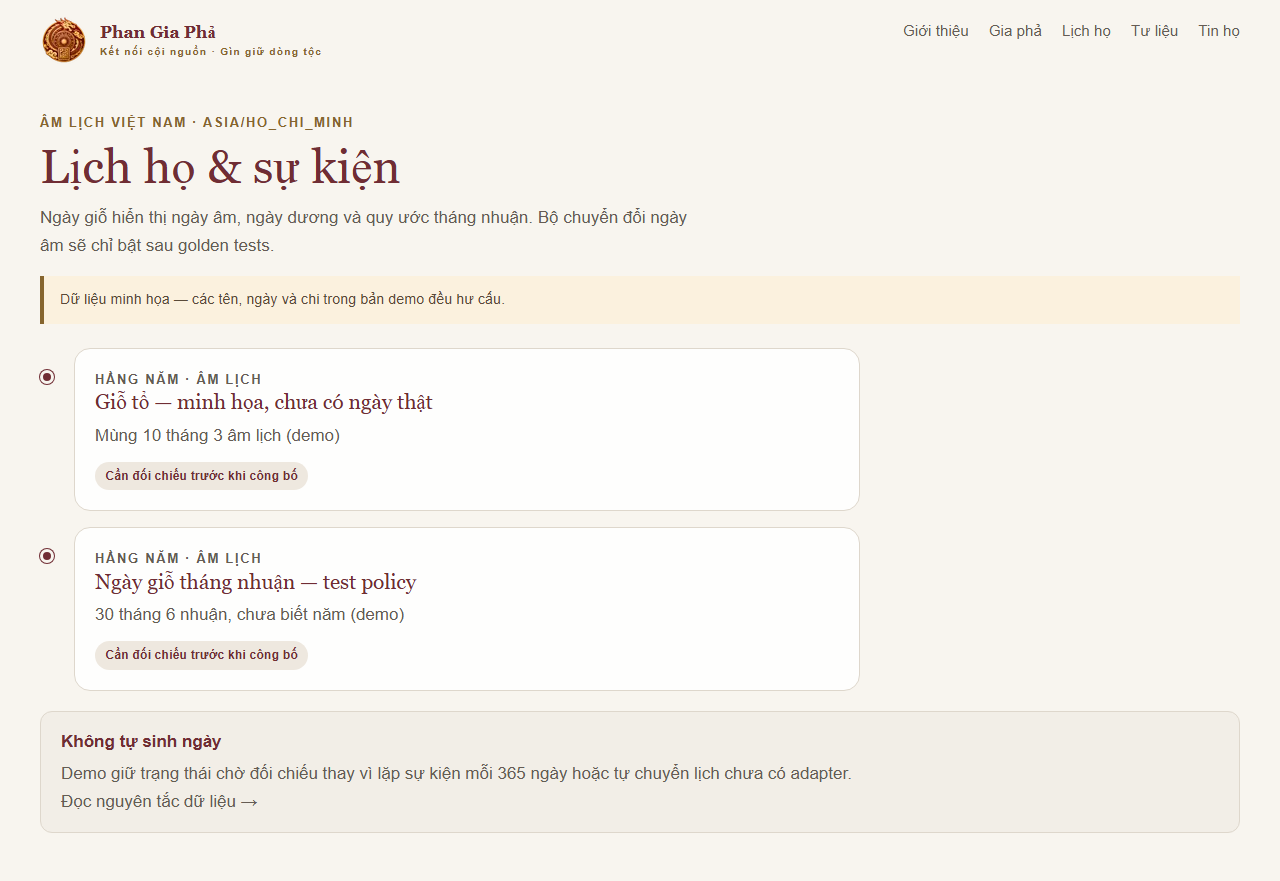
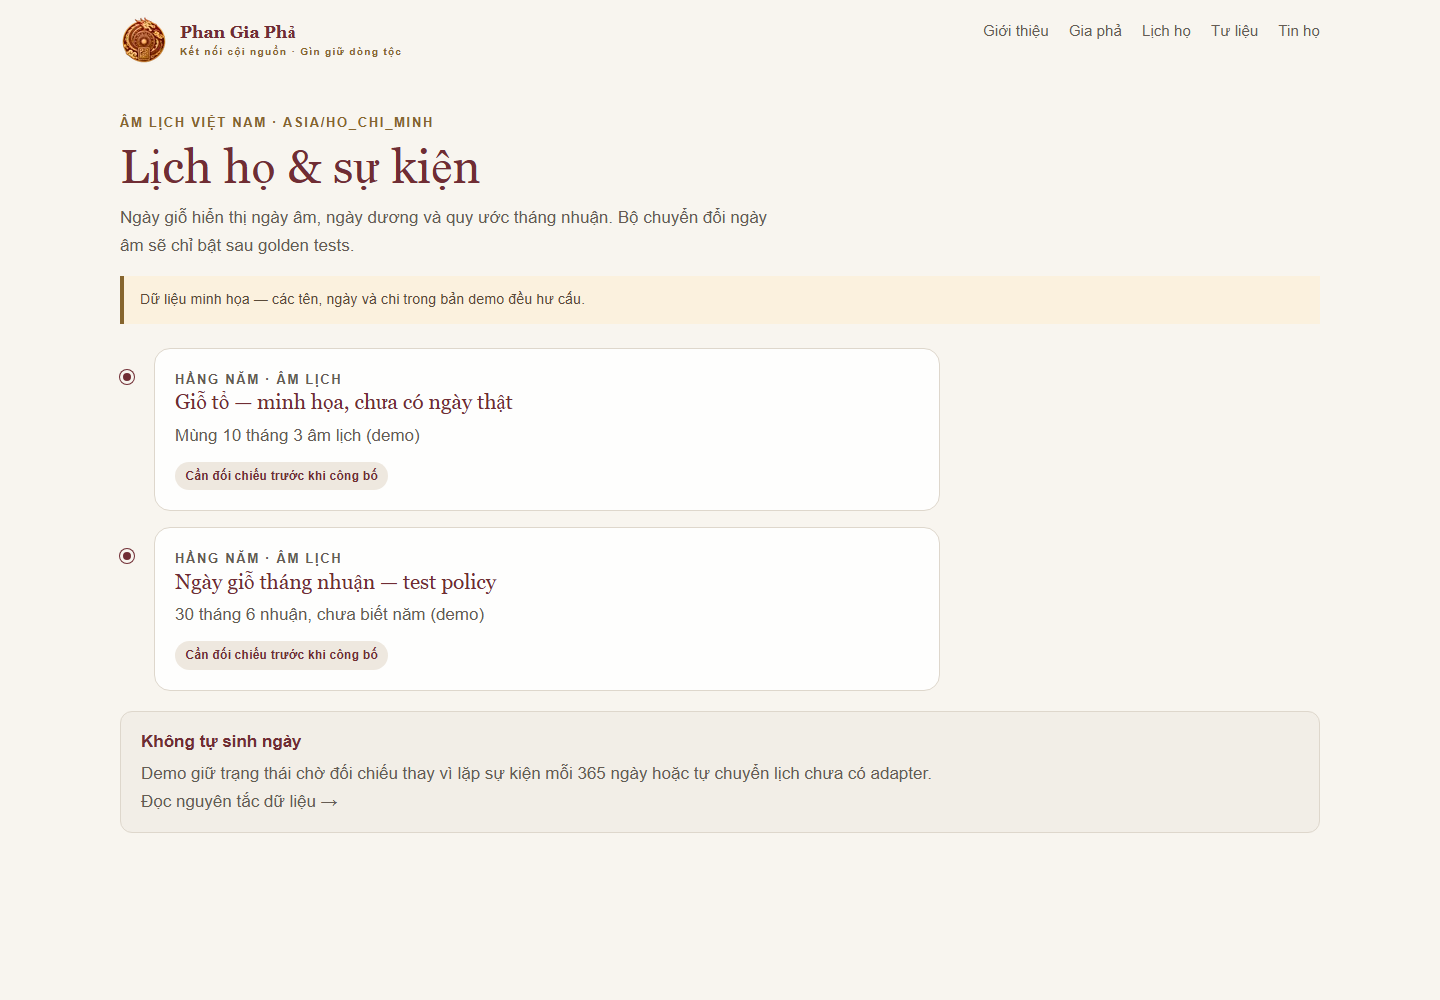
test: cover responsive accessibility smoke

diff --git a/tests/e2e/p1-demo.spec.ts b/tests/e2e/p1-demo.spec.ts
@@ -57,3 +57,29 @@ test("admin preview keeps restricted state explicit", async ({ page }, testInfo)
   await expect(page.getByRole("link", { name: "Đăng nhập theo lời mời" })).toBeVisible();
   await capture(page, "admin", testInfo.project.name);
 });
+
+test("keyboard and basic accessibility contracts remain available", async ({ page }) => {
+  await page.goto("/");
+  await page.keyboard.press("Tab");
+  await expect(page.locator(".skip-link")).toBeFocused();
+  await expect(page.locator(".skip-link")).toBeVisible();
+  await expect(page.getByRole("main")).toHaveAttribute("id", "main-content");
+
+  const imageAltComplete = await page.locator("img").evaluateAll((images) => images.every((image) => image.getAttribute("alt") !== null));
+  expect(imageAltComplete).toBe(true);
+
+  const primaryTargets = await page.locator("button, .button-primary, .button-secondary").evaluateAll((elements) => elements.every((element) => {
+    if (getComputedStyle(element).display === "none") return true;
+    const rect = element.getBoundingClientRect();
+    return rect.width >= 44 && rect.height >= 44;
+  }));
+  expect(primaryTargets).toBe(true);
+
+  const bottomNavTargets = await page.locator(".bottom-nav a").evaluateAll((elements) => elements.every((element) => {
+    const navigation = element.closest(".bottom-nav");
+    if (!navigation || getComputedStyle(navigation).display === "none") return true;
+    const rect = element.getBoundingClientRect();
+    return rect.width >= 44 && rect.height >= 44;
+  }));
+  expect(bottomNavTargets).toBe(true);
+});

diff --git a/playwright.config.ts b/playwright.config.ts
@@ -23,7 +23,8 @@ export default defineConfig({
     reuseExistingServer: !process.env.CI
   },
   projects: [
-    { name: "desktop-chromium", use: { ...devices["Desktop Chrome"] } },
-    { name: "mobile-chromium", use: { ...devices["Pixel 5"] } }
+    { name: "desktop-chromium", use: { ...devices["Desktop Chrome"], viewport: { width: 1440, height: 1000 } } },
+    { name: "mobile-chromium", use: { ...devices["Pixel 5"] } },
+    { name: "mobile-320", use: { ...devices["Pixel 5"], viewport: { width: 320, height: 844 } } }
   ]
 });

diff --git a/state/PROGRESS.md b/state/PROGRESS.md
@@ -22,5 +22,6 @@ Hoàn thiện P0-04/P0-05 bằng Supabase local + RLS/DB tests khi Docker daemon
 2026-09-26 — P0-01..P0-05: scaffold và foundation code; `pnpm-lock.yaml`; audit sau pin bảo mật; `pnpm typecheck` PASS, `pnpm test` PASS (5 domain tests), `pnpm lint` PASS với 15 warning, `pnpm build` PASS Next 16.3.3, local HTTP smoke PASS (`/` 200, live 200, ready 503 degraded), `pnpm verify` PASS; `pnpm run doctor` BLOCKED Node 24/Docker daemon; DB/browser/E2E NOT_RUN. Đã khởi tạo Git, commit `eab975447bd4b5f73daf4685590fac633e4166da` và push thành công lên `origin/main`; repo không chứa env/secret thật.
 2026-09-26 — P1 vertical slice: shared chrome/search/family-focus components; approved logo/hero assets; fixture-driven home, search, family focus, person profile, calendar and sources routes. `pnpm typecheck` PASS, `pnpm lint` PASS với 1 warning PostCSS, `pnpm build` PASS Next 16.3.3 (14 routes), `pnpm test` PASS (5 domain tests), `pnpm verify` PASS; standalone smoke PASS (`/`, `/tra-cuu?q=Phan`, `/gia-pha`, `/nguoi/[id]`, `/lich-ho`, `/tu-lieu`, `/api/v1/health/live` đều 200). Playwright E2E PASS 8/8 trên desktop Chromium + Pixel 5 mobile; 10 screenshot evidence đã tạo; full a11y/WebKit/real-device/H1 approval vẫn NOT_RUN/PENDING.
 2026-09-27 — UI-02 admin preview: added separate admin shell, restricted/empty preview cards and capability safety principles. `pnpm typecheck` PASS, `pnpm lint` PASS với 1 warning PostCSS, `pnpm test:e2e` PASS 10/10 trên desktop Chromium + Pixel 5 mobile; 12 screenshot evidence đã tạo. H1 approval, full a11y, WebKit và real-device vẫn PENDING/NOT_RUN.
+2026-09-27 — Responsive/a11y smoke: Playwright matrix PASS 18/18 across desktop 1440×1000, Pixel 5 and mobile 320×844; skip-link, main landmark, alt presence and visible touch-target contracts checked; 18 screenshots regenerated. Full axe/manual audit, WebKit, real device and H1 approval remain PENDING/NOT_RUN.
 
 Agent bổ sung theo mẫu: ngày, task, commit, thay đổi, command thực chạy, kết quả, evidence path, việc tiếp theo. Không ghi token/password hoặc dữ liệu thật.

diff --git a/state/HANDOFF.md b/state/HANDOFF.md
@@ -6,7 +6,7 @@ AGENTS.md → START_HERE.md → PROGRESS.md → TASKS.json → BLOCKERS.md/HUMAN
 ## Hiện trạng sau P0 foundation và P1 vertical slice
 Đã scaffold app: `apps/web`, `apps/worker`, `packages/config`, `packages/contracts`, `packages/domain`, `packages/ui`, `packages/lunar`; lockfile và assets đã có; migration `supabase/migrations/0001_foundation.sql`; CI/script foundation. P1 có shared chrome, search, family focus, profile và fixture-driven routes. `.env.local` được Next nhận diện nhưng chỉ dùng demo/public config. Không có dữ liệu thật. Chưa approval H1–H5.
 
-Evidence local: typecheck PASS, unit/domain test PASS, lint PASS với 1 warning, Next build PASS 14 routes, standalone HTTP smoke P1 PASS, Playwright Chromium desktop/mobile E2E PASS 10/10, 12 screenshot evidence including admin preview; audit high/moderate PASS. Doctor BLOCKED Node 24/Docker daemon; DB/RLS/WebKit/real-mobile/full-a11y/staging/production NOT_RUN.
+Evidence local: typecheck PASS, unit/domain test PASS, lint PASS với 1 warning, Next build PASS 14 routes, standalone HTTP smoke P1 PASS, Playwright responsive/a11y smoke PASS 18/18 at desktop 1440px, Pixel 5 and 320px, 18 screenshot evidence including admin preview; audit high/moderate PASS. Doctor BLOCKED Node 24/Docker daemon; DB/RLS/WebKit/real-mobile/full-a11y/staging/production NOT_RUN.
 
 ## Việc tiếp theo
 Đóng ENV-01/ENV-02 khi môi trường cho phép; chạy `pnpm exec supabase --help`, init/start local stack theo docs 16; áp dụng migration local và viết DB/RLS tests. Hoàn thiện P1 bằng full a11y/WebKit nếu cần và H1 review. Không chạy `database/schema.blueprint.sql` thẳng lên production.

diff --git a/state/TEST_REPORT.md b/state/TEST_REPORT.md
@@ -13,11 +13,11 @@ Application status: FOUNDATION_AND_P1_DEMO_EXECUTED; product acceptance remains 
 | API contract/integration | NOT_RUN | — |
 | E2E local/staging | PASS (local demo only) | `pnpm test:e2e`, production build + standalone server, 10/10 tests PASS across desktop Chromium and Pixel 5 mobile; admin preview included |
 | Lunar golden + roundtrip | NOT_RUN | — |
-| Accessibility/real mobile | NOT_RUN | Semantic locator smoke included in E2E; full axe/manual/real-device audit not run |
+| Accessibility/real mobile | PARTIAL | Semantic smoke PASS 18/18: skip-link focus, main landmark, image alt presence and visible touch-target checks; full axe/manual/real-device audit not run |
 | Performance/load | NOT_RUN | — |
 | Security review | NOT_RUN | — |
 | DB + object restore drill | NOT_RUN | — |
-| Visual screenshot evidence | PASS (local demo only) | `reports/design-review/`: 12 screenshots for home/person/family-focus/calendar/sources/admin on desktop Chromium and Pixel 5 mobile; H1 reviewer approval PENDING |
+| Visual screenshot evidence | PASS (local demo only) | `reports/design-review/`: 18 screenshots for home/person/family-focus/calendar/sources/admin at desktop 1440px, Pixel 5 and 320px; H1 reviewer approval PENDING |
 | Production smoke/rollback | NOT_RUN | No production endpoint/approval; deploy intentionally not attempted |
 
 ## Test command records

diff --git a/state/BLOCKERS.md b/state/BLOCKERS.md
@@ -11,7 +11,7 @@
 | DEP-05 | Tài liệu thật và H5 | Import dữ liệu thật | Toàn bộ demo và import engine |
 | ENV-01 | Local Node `22.13.0`, trong khi manifest/CI yêu cầu Node 24 | Node 24-specific verification và release baseline | Typecheck/test/build đã chạy trên Node 22, nhưng không thay thế gate Node 24 |
 | ENV-02 | Docker daemon chưa chạy: `DOCKER_CONFIG=.docker-config docker.exe version` báo named pipe `docker_engine` không tồn tại; config mặc định cũng bị Access denied | Supabase local, migration execution, RLS/DB integration, restore drill | UI, domain unit, contract schemas, migration static review, CI template |
-| P1-01 | H1 visual approval và full accessibility review chưa có; WebKit/real-device chưa chạy | UI-01/UI-02 completion và final visual gate | Chromium desktop/mobile E2E 10/10, 12 screenshots, fixture-driven routes, typecheck/lint/build |
+| P1-01 | H1 visual approval và full accessibility review chưa có; WebKit/real-device chưa chạy | UI-01/UI-02 completion và final visual gate | Chromium responsive/a11y smoke 18/18, 18 screenshots, fixture-driven routes, typecheck/lint/build |
 
 Git push P0: CLEAR — commit `eab975447bd4b5f73daf4685590fac633e4166da` đã đồng bộ trên `origin/main`; không phát sinh blocker quyền truy cập remote.
 

diff --git a/state/TASKS.md b/state/TASKS.md
@@ -9,8 +9,8 @@ Canonical: `TASKS.json`. P0 đang có scaffold ứng dụng và foundation code;
 | P0-03 | P0 | Scaffold workspace và scripts | P0-02 | DONE — typecheck/test/lint/build; commit/push `eab9754` |
 | P0-04 | P0 | Contract và DB migrations nền | P0-03 | IN_PROGRESS — DB execution NOT_RUN |
 | P0-05 | P0 | CI và test harness | P0-03 | IN_PROGRESS — CI template, integration NOT_RUN |
-| UI-01 | P1 | Design tokens và component stories | P0-03 | IN_PROGRESS — shared components/tokens + Chromium E2E PASS; full stories/a11y NOT_RUN |
-| UI-02 | P1 | Năm màn hình duyệt phong cách | UI-01 | IN_PROGRESS — admin preview included; 12 desktop/mobile screenshots generated; H1 approval PENDING |
+| UI-01 | P1 | Design tokens và component stories | P0-03 | IN_PROGRESS — shared components/tokens + responsive/a11y smoke 18/18; full stories/axe/manual audit NOT_RUN |
+| UI-02 | P1 | Năm màn hình duyệt phong cách | UI-01 | IN_PROGRESS — admin preview included; 18 screenshots at 1440/Pixel 5/320; H1 approval PENDING |
 | CORE-01 | P2 | Auth/RPC/permission foundation | P0-04 |  |
 | CORE-02 | P2 | Vertical slice có DB và review | CORE-01, P0-05 |  |
 | JOBS-01 | P2 | Outbox/worker nền | P0-04 |  |

diff --git a/state/ENVIRONMENT.md b/state/ENVIRONMENT.md
@@ -11,7 +11,7 @@ Trạng thái: PARTIALLY_VERIFIED trên workspace ngày 27/09/2026 00:02 Asia/Sa
 | Docker client | docker version | PASS — Docker `29.8.0`, build `88096ef` |
 | Docker daemon | docker info / Server section | BLOCKED — với `DOCKER_CONFIG=.docker-config`, client báo không tìm thấy `//./pipe/docker_engine`; Docker daemon chưa chạy. Config mặc định cũng bị `Access is denied` |
 | Supabase local | CLI + Docker | NOT_RUN — phụ thuộc Docker daemon; chưa cài/chạy CLI |
-| Browser | Chromium và WebKit test; real mobile riêng | PARTIAL — Chromium 140.0.7339.186 installed; desktop + Pixel 5 emulation E2E PASS 10/10; WebKit/real device NOT_RUN |
+| Browser | Chromium và WebKit test; real mobile riêng | PARTIAL — Chromium 140.0.7339.186 installed; responsive/a11y smoke PASS 18/18 at desktop 1440px, Pixel 5 and 320px; WebKit/real device NOT_RUN |
 | Git | repo riêng, không lẫn project công việc | PASS — `main` sạch và đồng bộ `origin/main`; staged audit không có env/secret thật |
 
 ## Bằng chứng lệnh
